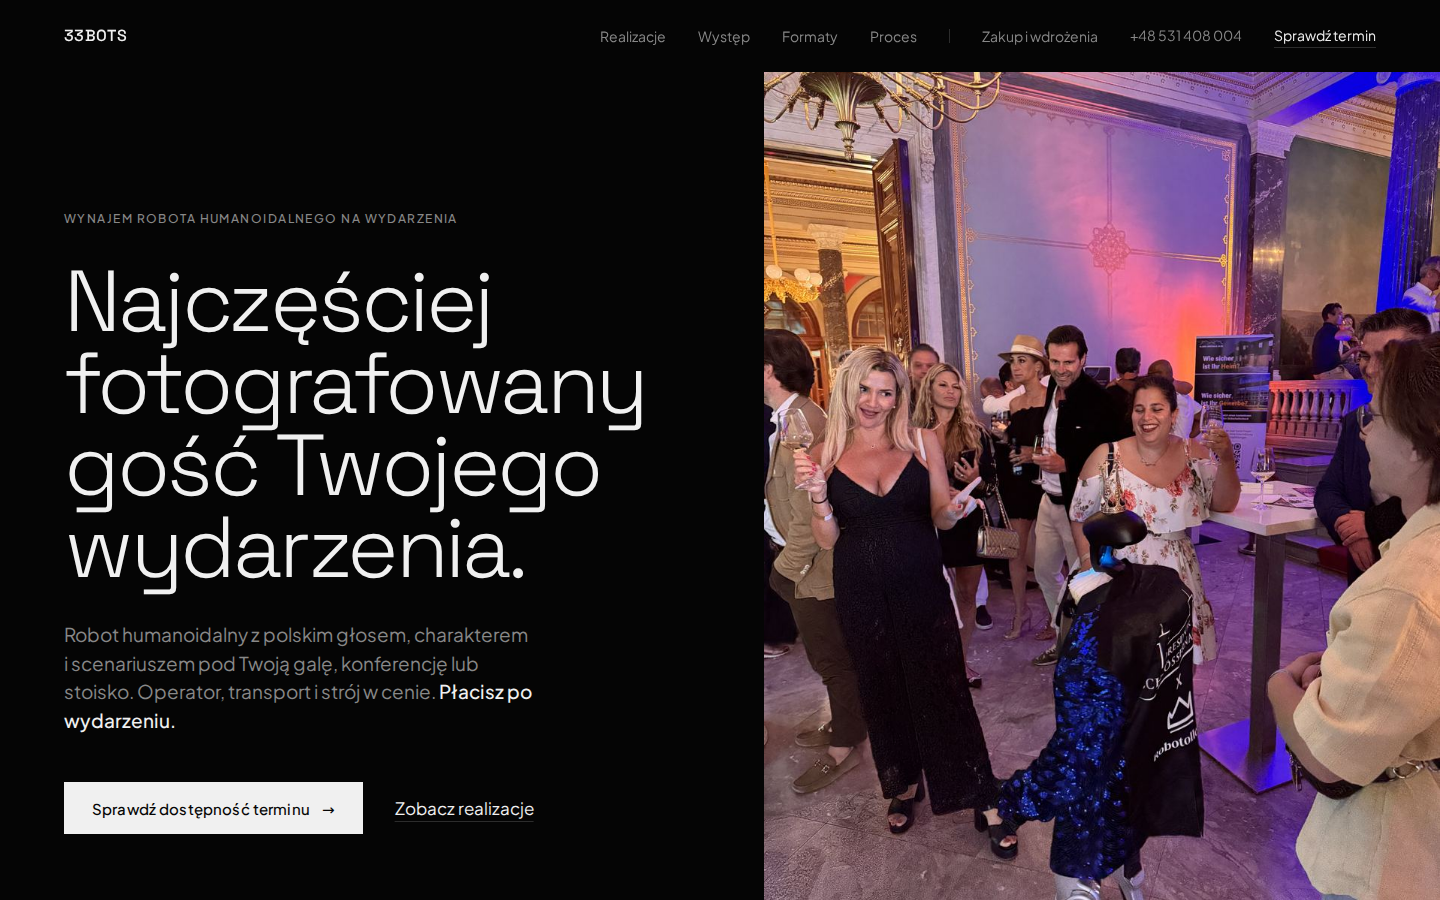
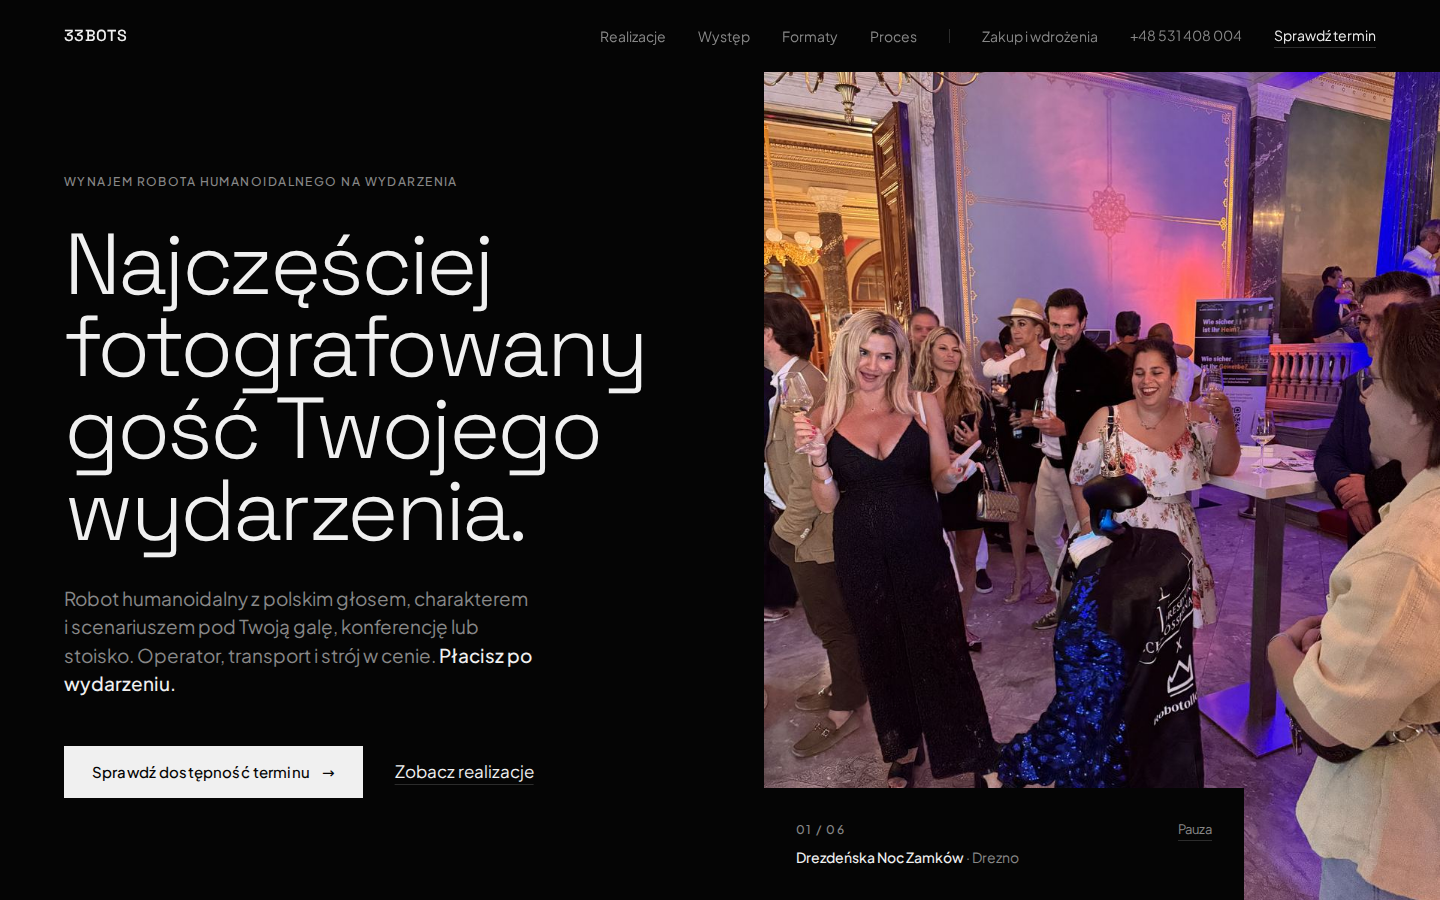
Hero: rotacja zdjęć z realizacji z podpisami
Sześć kadrów z różnych realizacji zmienia się co 6 s (przygaszenie 400 ms),
każdy z licznikiem i podpisem „klient · miejsce”. Pauza przyciskiem, po
najechaniu i przy fokusie (WCAG 2.2.2); przy ograniczonym ruchu nic nie
zmienia się samo, a przycisk przełącza na następne zdjęcie. Zdjęcie leży
absolutnie w ramie, więc zmiana kadru nie przesuwa układu. Zdjęcia z rotacji
wyjęte z szuflad, żeby każde było w DOM raz i realizacja miała najwyżej trzy.
Testy: kolejność kadrów, podpisy, pauza, ograniczony ruch, stała wysokość hero.

Claude-Session: https://claude.ai/code/session_01CABXHV9S3CJaXRngGHWVV2

diff --git a/index.html b/index.html
@@ -47,7 +47,7 @@ j=d.createElement(s),dl=l!='dataLayer'?'&l='+l:'';j.async=true;j.src=
 <link rel="stylesheet" href="assets-redesign.css?v=b98b8b5b" />
 
 <script>document.documentElement.classList.add('js');</script>
-<link rel="stylesheet" href="css/site.css?v=f8a327ca" />
+<link rel="stylesheet" href="css/site.css?v=639c3060" />
 
 <script type="application/ld+json">
 {"@context":"https://schema.org","@type":"Product","name":"Wynajem robota humanoidalnego Unitree G1","description":"Wynajem robota humanoidalnego Unitree G1 na eventy, targi i konferencje w całej Polsce.","url":"https://33bots.pl","image":"https://33bots.pl/robot-g1.jpg","brand":{"@type":"Brand","name":"Unitree"},"offers":{"@type":"AggregateOffer","priceCurrency":"PLN","lowPrice":"5500","highPrice":"6500","availability":"https://schema.org/InStock","url":"https://33bots.pl/#cennik","description":"Cały dzień realizacji z transportem, operatorem i brandingiem w cenie. Możliwy krótszy pokaz (wycena indywidualna) oraz realizacje wielodniowe z rabatem 15% na każdy dzień. Zero zaliczki, faktura po wydarzeniu."},"aggregateRating":{"@type":"AggregateRating","ratingValue":"5.0","reviewCount":"3","bestRating":"5","worstRating":"1"}}
@@ -235,8 +235,13 @@ height="0" width="0" style="display:none;visibility:hidden"></iframe></noscript>
       <a class="link" href="realizacje-wideo.html">Zobacz realizacje</a>
     </div>
   </div>
-  <figure class="hero__media">
+  <figure class="hero__media" id="heroMedia">
     <img src="realizacja-gala-wsrod-gosci.jpg" alt="Robot humanoidalny wśród gości gali" fetchpriority="high" decoding="async" width="900" height="1200">
+    <figcaption class="hero__podpis">
+      <span class="label" id="heroLicznik">01 / 06</span>
+      <span class="hero__opis" id="heroOpis"><b>Drezdeńska Noc Zamków</b> · Drezno</span>
+      <button class="hero__pauza" id="heroPauza" type="button" aria-pressed="false" hidden>Pauza</button>
+    </figcaption>
   </figure>
 </section>
 
@@ -740,6 +745,68 @@ height="0" width="0" style="display:none;visibility:hidden"></iframe></noscript>
 (() => {
   const reduce = matchMedia('(prefers-reduced-motion: reduce)').matches;
 
+  /* ——— Hero: rotacja zdjęć z realizacji ———
+     Jeden <img>: przygaszenie, podmiana źródła, rozjaśnienie. Co 6 s, od załadowania
+     strony; pauza przyciskiem, najechaniem i fokusem (WCAG 2.2.2). Przy ograniczonym
+     ruchu nic nie zmienia się samo — przycisk przełącza zdjęcia ręcznie. */
+  const SLAJDY = [
+    { src: 'realizacja-gala-wsrod-gosci.jpg', alt: 'Robot humanoidalny wśród gości gali', klient: 'Drezdeńska Noc Zamków', gdzie: 'Drezno' },
+    { src: 'realizacja-eco-studio-wywiad.jpg', alt: 'Dziennikarka nagrywa wywiad z robotem humanoidalnym przy ściance sponsorów Eco Studio', klient: 'Finał Eco Studio ELECTRO-SYSTEM', gdzie: 'Warszawa' },
+    { src: 'realizacja-przelewice-arkady.jpg', alt: 'Robot humanoidalny w podświetlonych arkadach podczas Nocy Bajek', klient: 'Ogród Dendrologiczny w Przelewicach', gdzie: 'Noc Bajek' },
+    { src: 'realizacja-yeah-gym-koszulka.jpg', alt: 'Robot humanoidalny w koszulce klubu YEAH GYM macha na powitanie', klient: 'YEAH GYM', gdzie: 'Wrocław' },
+    { src: 'realizacja-matys-silver-garden.jpg', alt: 'Robot humanoidalny przy ściance inwestycji Silver Garden na stoisku Matys Development', klient: 'Matys Development', gdzie: 'Szczecin' },
+    { src: 'realizacja-szkola-kosmos-majaland.jpg', alt: 'Robot humanoidalny w fartuchu Szkoły Kosmos na rozpoczęciu roku', klient: 'Szkoła Kosmos', gdzie: 'Majaland' },
+  ];
+  const heroMedia = document.getElementById('heroMedia');
+  const heroImg = heroMedia.querySelector('img');
+  const heroLicznik = document.getElementById('heroLicznik');
+  const heroOpis = document.getElementById('heroOpis');
+  const heroPauza = document.getElementById('heroPauza');
+  const nr = (n) => String(n).padStart(2, '0');
+  let slajd = 0, zatrzymane = false, wstrzymane = false, zegar = null;
+
+  const pokazSlajd = async (n) => {
+    const s = SLAJDY[n];
+    const wstepnie = new Image();
+    wstepnie.src = s.src;
+    try { await wstepnie.decode(); } catch (e) { /* pokaż mimo to */ }
+    heroImg.classList.add('znika');
+    await new Promise((r) => setTimeout(r, reduce ? 0 : 400));
+    heroImg.removeAttribute('fetchpriority');
+    heroImg.src = s.src; heroImg.alt = s.alt;
+    heroImg.removeAttribute('width'); heroImg.removeAttribute('height');
+    heroLicznik.textContent = `${nr(n + 1)} / ${nr(SLAJDY.length)}`;
+    heroOpis.replaceChildren(Object.assign(document.createElement('b'), { textContent: s.klient }), ` · ${s.gdzie}`);
+    heroImg.classList.remove('znika');
+    slajd = n;
+  };
+  const nastepny = () => pokazSlajd((slajd + 1) % SLAJDY.length);
+  const planuj = () => {
+    clearTimeout(zegar);
+    if (reduce || zatrzymane || wstrzymane || document.hidden) return;
+    zegar = setTimeout(async () => { await nastepny(); planuj(); }, 6000);
+  };
+  heroPauza.hidden = false;
+  if (reduce) {
+    heroPauza.textContent = 'Następne zdjęcie';
+    heroPauza.removeAttribute('aria-pressed');
+    heroPauza.addEventListener('click', nastepny);
+  } else {
+    heroPauza.addEventListener('click', () => {
+      zatrzymane = !zatrzymane;
+      heroPauza.setAttribute('aria-pressed', String(zatrzymane));
+      heroPauza.textContent = zatrzymane ? 'Wznów' : 'Pauza';
+      planuj();
+    });
+    const wstrzymaj = (tak) => { wstrzymane = tak; planuj(); };
+    heroMedia.addEventListener('mouseenter', () => wstrzymaj(true));
+    heroMedia.addEventListener('mouseleave', () => wstrzymaj(false));
+    heroMedia.addEventListener('focusin', () => wstrzymaj(true));
+    heroMedia.addEventListener('focusout', () => wstrzymaj(false));
+    document.addEventListener('visibilitychange', planuj);
+    if (document.readyState === 'complete') planuj(); else addEventListener('load', planuj);
+  }
+
   /* ——— Nawigacja: tło i linia włosowa po przewinięciu ——— */
   const nav = document.getElementById('nav');
   const tloNav = () => nav.classList.toggle('nav--tlo', scrollY > 8 || !panel.hidden);
@@ -802,14 +869,7 @@ height="0" width="0" style="display:none;visibility:hidden"></iframe></noscript>
       ],
       "opis": "Robot był jedną z atrakcji finału, obok koncertów i części oficjalnej. Pracował na scenie z prowadzącymi i finalistami oraz przy ściance sponsorów, gdzie nagrano z nim wywiad.",
       "link": "case-study-eco-studio-electro-system.html",
-      "zdjecia": [
-        {
-          "plik": "realizacja-eco-studio-wywiad",
-          "alt": "Wywiad z robotem humanoidalnym przy ściance sponsorów Eco Studio",
-          "w": 720,
-          "h": 1080
-        }
-      ]
+      "zdjecia": []
     },
     "women-in-tech": {
       "klient": "Women in Tech Summit",
@@ -894,14 +954,7 @@ height="0" width="0" style="display:none;visibility:hidden"></iframe></noscript>
       ],
       "opis": "Robot pracował po zmroku przy Mauzoleum rodziny von Prillwitz, w świetle reflektorów ustawionych na arkadach.",
       "link": "case-study-ogrod-przelewice.html",
-      "zdjecia": [
-        {
-          "plik": "realizacja-przelewice-arkady",
-          "alt": "Robot humanoidalny w Ogrodzie Dendrologicznym w Przelewicach",
-          "w": 810,
-          "h": 1080
-        }
-      ]
+      "zdjecia": []
     },
     "drezno": {
       "klient": "Drezdeńska Noc Zamków",
@@ -948,14 +1001,7 @@ height="0" width="0" style="display:none;visibility:hidden"></iframe></noscript>
       "liczby": [],
       "opis": "Robot na stoisku Matys Development podczas targów nieruchomości w Szczecinie, z materiałami inwestycji Silver Garden.",
       "link": null,
-      "zdjecia": [
-        {
-          "plik": "realizacja-matys-silver-garden",
-          "alt": "Robot humanoidalny z materiałami inwestycji Silver Garden",
-          "w": 810,
-          "h": 1080
-        }
-      ]
+      "zdjecia": []
     },
     "szkola-kosmos": {
       "klient": "Szkoła Kosmos",
@@ -963,14 +1009,7 @@ height="0" width="0" style="display:none;visibility:hidden"></iframe></noscript>
       "liczby": [],
       "opis": "Robot w fartuchu Szkoły Kosmos na rozpoczęciu roku szkolnego w Majalandzie.",
       "link": null,
-      "zdjecia": [
-        {
-          "plik": "realizacja-szkola-kosmos-majaland",
-          "alt": "Robot humanoidalny w fartuchu Szkoły Kosmos na rozpoczęciu roku",
-          "w": 810,
-          "h": 1080
-        }
-      ]
+      "zdjecia": []
     },
     "yeah-gym": {
       "klient": "YEAH GYM",
@@ -979,12 +1018,6 @@ height="0" width="0" style="display:none;visibility:hidden"></iframe></noscript>
       "opis": "Robot w koszulce klubu YEAH GYM na sali treningowej we Wrocławiu.",
       "link": null,
       "zdjecia": [
-        {
-          "plik": "realizacja-yeah-gym-koszulka",
-          "alt": "Robot humanoidalny w koszulce klubu YEAH GYM",
-          "w": 810,
-          "h": 1080
-        },
         {
           "plik": "realizacja-yeah-gym-trening",
           "alt": "Robot humanoidalny obok trenerki w klubie fitness",

diff --git a/css/site.css b/css/site.css
@@ -80,6 +80,25 @@ body { color: var(--text); font: 400 17px/1.6 var(--font-body); -webkit-font-smo
 .hero__actions { display: flex; flex-wrap: wrap; align-items: center; gap: 16px 32px; margin-top: 16px; }
 .hero__media { grid-column: 7 / -1; margin: 0; }
 .hero__media img { display: block; width: 100%; height: 100%; object-fit: cover; object-position: center; }
+/* Rotacja: jedno zdjęcie przygasa i wraca z nowym kadrem. Podpis to pełne pole
+   w kolorze tła — czytelne na każdym zdjęciu, bez gradientu i cienia.
+   Zdjęcie leży absolutnie, więc ramę wyznacza wysokość hero (desktop) lub
+   aspect-ratio (mobile), a nie proporcje pliku: zmiana kadru nie przesuwa
+   układu, a podpis zawsze kończy się na dolnej krawędzi pierwszego ekranu. */
+.hero__media { position: relative; }
+.hero__media img { position: absolute; inset: 0; transition: opacity .4s cubic-bezier(.2, 0, 0, 1); }
+.hero__media img.znika { opacity: 0; }
+/* Stała szerokość i dwa rzędy (licznik + pauza, potem podpis), żeby płytka
+   nie zmieniała rozmiaru przy każdej zmianie kadru. */
+.hero__podpis { position: absolute; left: 0; bottom: 0; display: grid; grid-template-columns: 1fr auto;
+  align-items: baseline; gap: 8px 24px; width: min(100%, 480px); padding: var(--inset); background: var(--ink); }
+.hero__opis { grid-column: 1 / -1; grid-row: 2; font: 400 14px/1.5 var(--font-body); color: var(--text-2); }
+.hero__opis b { font-weight: 500; color: var(--text); }
+.hero__pauza { grid-column: 2; grid-row: 1; padding: 0; border: 0; background: none; color: var(--text-2); cursor: pointer;
+  font: 400 13px/1.5 var(--font-body); text-decoration: underline; text-decoration-thickness: 1px;
+  text-underline-offset: 6px; text-decoration-color: var(--line-strong); transition: color .2s; }
+.hero__pauza:hover { color: var(--text); }
+.hero__pauza:focus-visible { outline: 2px solid var(--accent); outline-offset: 4px; }
 
 /* ——— Pasek „Widziani w” ———
    Linia włosowa u góry, więc tekst trzyma od niej --inset (24 / 32 px). */
